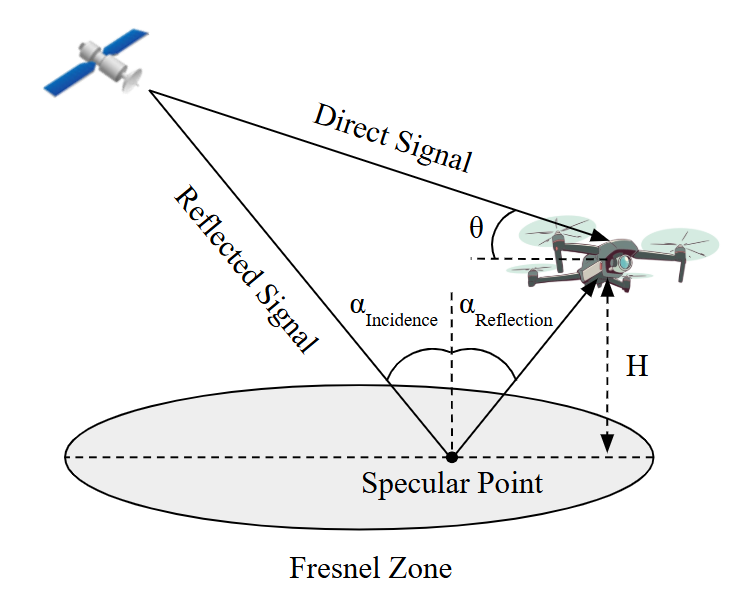
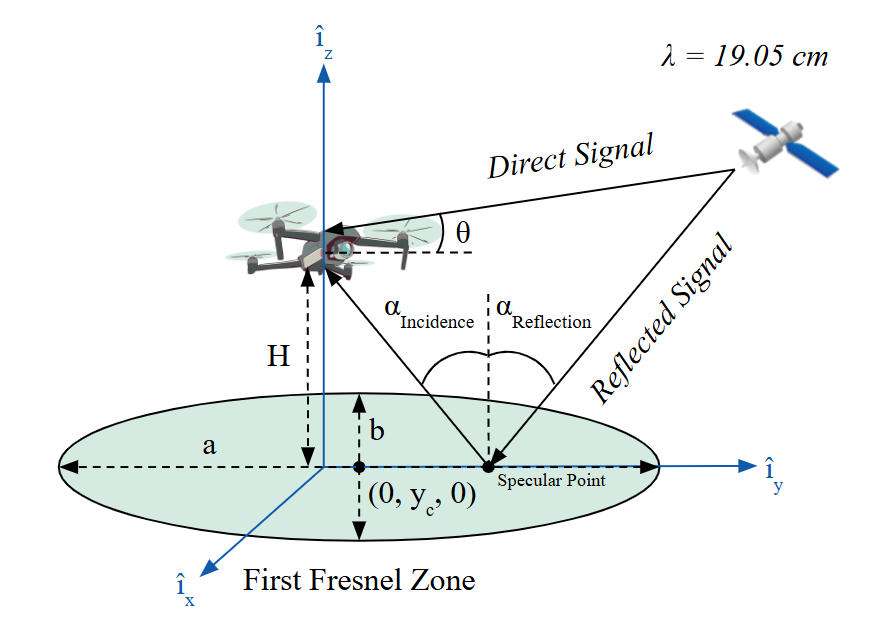
Update until 6.2.3

diff --git a/Final_Report.tex b/Final_Report.tex
@@ -48,7 +48,7 @@
 \subsubsectionfont{\normalsize\it}
 \setlength{\parindent}{0pt}
 \urlstyle{same}
-
+\captionsetup[subfigure]{justification=centering}
 
 \begin{document}
 
@@ -269,14 +269,14 @@ cross-validate the ground parameters retrieved by GNSS-R and machine learning
 models.
 
 The raw GNSS data collected during the flight mission will be post-processed
-into two key measurements: 1) the signal's carrier to noise ratio (CNR), and 2)
-the excess pseudorange delay of the reflected signal after compensating for the
-delay caused by geometrical reflection. These measurements are then analyzed in
-correlation with the ground regions that the signals reflected off from - the
-First Fresnel Zones (FFZ), while any correlation between GNSS measurements and
-ground parameters will be modelled both quantitatively and qualitatively.
-Ultimately, such models will be used to retrieve highly correlated ground
-parameters from key GNSS signal measurements.
+into two key measurements: 1) the signal's carrier to noise ratio ($C/N_0$), and
+2) the excess pseudorange delay of the reflected signal after compensating for
+the delay caused by geometrical reflection. These measurements are then analyzed
+in correlation with the ground regions that the signals reflected off from - the
+First Fresnel Zones, while any correlation between GNSS measurements and ground
+parameters will be modelled both quantitatively and qualitatively. Ultimately,
+such models will be used to retrieve highly correlated ground parameters from
+key GNSS signal measurements.
 
 Lastly, machine learning methods will be adopted to process the collected GNSS
 data. A trained LightGBM model will be used to classify the GNSS signals
@@ -1638,7 +1638,7 @@ practical forest monitoring applications. However, since GNSS signals flip to
 LHCP upon reflection, a receiver capable of receiving LHCP signals is necessary
 to complete the RL polarization configuration \cite{Jia2018}. In another study,
 the polarization scattering properties of GNSS-R signals in forest canopies were
-modeled, where simulations revealed that tree trunk scattering effects would
+modelled, where simulations revealed that tree trunk scattering effects would
 dominate total scattering response, while satellite azimuth angles are
 significantly correlated to the signal polarization \cite{Wu2014}. 
 
@@ -1662,9 +1662,9 @@ receives both the direct and reflected signals simultaneously, the power of the
 received signals was coherently added. As a result, the recorded power
 oscillations due to interference present notches that are correlated to
 vegetation layer thickness and the reflection geometry (Figure \ref{SMIGOL})
-\cite{RodriguezAlvarez2011}. Ultimately, an RMSE of 3-5 cm in estimating the
-height of vegetation with simple geometrical structures (barley and wheat) could
-be achieved \cite{RodriguezAlvarez2011}.
+\cite{RodriguezAlvarez2011}. Ultimately, a Root Mean Square Error (RMSE) of 3-5
+cm in estimating the height of vegetation with simple geometrical structures
+(barley and wheat) could be achieved \cite{RodriguezAlvarez2011}.
 
 \begin{figure}[H]
     \centering
@@ -1696,9 +1696,10 @@ in vegetation monitoring applications:
     soil parameters, and tree size, with RL polarization being ideal for forest
     monitoring. \\
     \midrule
-    Rodríguez-Álvarez et al. (2011) & A SMIGOL reflectometer, which leverages GNSS signal
-    interference patterns to measure soil and vegetation conditions, is used to achieve
-    3-5 cm RMSE in estimating simple vegetation height. \\
+    Rodríguez-Álvarez et al. (2011) & A SMIGOL reflectometer, which leverages
+    GNSS signal interference patterns to measure soil and vegetation conditions,
+    can be used to achieve 3-5 cm RMSE in estimating simple vegetation height.
+    \\
     \midrule
     Wu et al. (2014) & Tree trunk scattering dominates the total GNSS-R
     response, while satellite azimuth angles are significantly correlated to
@@ -1718,112 +1719,175 @@ in vegetation monitoring applications:
 Yet, despite the effort in prior studies, the use of GNSS-R techniques in
 vegetation remote sensing and monitoring is far from developed. Most
 importantly, existing research relies heavily on space-borne or static
-ground-based platforms, while the use of high spatial resolution and flexibility
-platforms - such as a UAV - remains underexplored. Therefore, it is critical to
-develop a systematic framework for a UAV-based GNSS-R system, in which
-correlations between GNSS-R signal features and vegetation condition parameters
-are comprehensively assessed and modeled.
+ground-based platforms, while the use of high spatial resolution and high
+flexibility platforms - such as a UAV - remains underexplored. Therefore, it is
+critical to develop a systematic framework for a UAV-based GNSS-R system, in
+which correlations between GNSS-R signal features and vegetation condition
+parameters are comprehensively assessed and modelled.
 
 \subsection{Methodology}
-The GNSS-R framework takes in raw GNSS data collected from the onboard
-receivers, extracts raw GNSS measurements, and analyzes the characteristics of
-such measurements with respect to the ground features that falls within the
-Fresnel zones. Ultimately, the correlation between GNSS measurement features and
-vegetation properties would be systematically summarized and modeled. The method
-used for retrieving GNSS measurements and the Fresnel zone from collected raw data
-is briefly outlined in the following two sections, while the MATLAB code for the 
-GNSS-R framework is presented in the Appendix.
+In this project, a RL polarization system is adopted onboard the UAV: the zenith
+antenna receives the RHCP signals transmitted directly from the satellite, while
+the nadir antenna receives the LHCP signals after they have reflected off
+various ground features. A schematic representation of the RL polarization
+system, as well as the two types of GNSS signal polarization types, are shown in
+Figure \ref{RL System} below. 
+
+\begin{figure}[H]
+    \centering
+    \begin{subfigure}{0.7\textwidth}
+        \includegraphics[width=\textwidth]{Included_Images/RL_system.png}
+        \caption{RL Polarization System Used for Remote Sensing}
+    \end{subfigure}
+    \vfill
+    \begin{subfigure}{0.49\textwidth}
+        \includegraphics[width=\textwidth]{Included_Images/RHCP.png}
+        \caption{Right-Hand Circular Polarization \\ (Direct GNSS Signal)}
+    \end{subfigure}
+    \hfill
+    \begin{subfigure}{0.49\textwidth}
+        \includegraphics[width=\textwidth]{Included_Images/LHCP.png}
+        \caption{Left-Hand Circular Polarization \\ (Reflected GNSS Signal)}
+    \end{subfigure}
+    \caption{RL polarization system adopted for this project and GNSS signal polarization types.}
+    \label{RL System}
+\end{figure}
+
+The GNSS-R framework then takes in raw GNSS data collected from the onboard
+receivers, extracts GNSS measurements, and analyzes the characteristics of such
+measurements with respect to the ground features that falls within the First
+Fresnel Zones (FFZs) of reflection. Ultimately, the correlation between GNSS
+measurement features and vegetation properties would be systematically
+summarized and modelled. The following sections detail the GNSS measurement
+retrieval process, the calculation of FFZ location and geometry, as well as the
+quantitative modelling of correlations between GNSS parameters and ground
+features. Additionally, the open-source code repository developed for the GNSS-R
+framework of this project is presented in the Appendix.
 
 \subsubsection{GNSS Measurement Extraction}
 Two raw data sources are necessary for the extraction of key GNSS measurements
-used in this project: the raw binary GNSS data and the Pixhawk controller log.
+used for GNSS-R: the raw binary GNSS data and the Pixhawk controller log.
 First, the binary GNSS data is converted into readable observation files using
 RTKCONV \cite{takasu2009rtklib}, and together with the satellite ephemeris data
 downloaded from \url{https://cddis.nasa.gov/archive/gnss/data/}, measurements
 such as the satellite elevation angle, pseudorange, and carrier to noise ratio
 could be extracted using the MatRTKLIB library \cite{taroz:matrtklib}. From the
 Pixhawk controller log, the UAV position, which is a filtered positioning result
-from various onboard sensors, is obtained and regarded as the ground truth
-assuming that the positioning error is small. Ultimately, two major GNSS
-measurement are taken for further analysis: carrier to noise ratio ($C/N_0$) and
-pseudorange error. 
+from onboard sensor inputs, is obtained and regarded as the ground truth
+assuming that the positioning error is small. Then, two key GNSS measurement
+parameters are calculated for further analysis: carrier to noise ratio ($C/N_0$)
+and excess pseudorange delay. 
 \begin{figure}[H]
     \centering
-    \includegraphics[width=0.8\textwidth]{Included_Images/GNSS_Measurement_Flow.png}
-    \caption{Flowchart of extracting GNSS measurements from raw data.}
+    \includegraphics[width=\textwidth]{Included_Images/GNSS_Measurement_Flow.png}
+    \caption{Workflow of extracting GNSS measurements from raw data.}
 \end{figure}
 
 \paragraph{Carrier to Noise Ratio} ~\\
 Carrier to noise ratio refers to the power of received carrier signal relative
-to the noise power per unit bandwidth, usually with a unit of decibel-Hertz (dB-Hz)
-\cite{joseph2010gnss}. $C/N_0$ can be readily obtained from the receiver, and it 
-is calculated as the following:
+to the noise power per unit bandwidth, usually with a unit of decibel-Hertz
+(dB-Hz) \cite{joseph2010gnss}. $C/N_0$ can be readily obtained from the
+receiver, and it is calculated as the following:
 \begin{equation}
     C/N_0 = C - (N - BW)
 \end{equation}
-where $C$ refers to the carrier power in dBm or dBW; $N$ refers to the noise power
-in dBm or dBW; and $BW$ refers to the bandwidth of the signal in Hz.
+where $C$ refers to the carrier power in dBm or dBW; $N$ refers to the noise
+power in dBm or dBW; and $BW$ refers to the bandwidth of the signal in Hz. Since
+$C/N_0$ can be attenuated by scattering off from trees or by reflecting off from
+the ground, the attenuation profiles from different ground objects may carry key
+information that describes potential ground features. 
 
-\paragraph{Pseudorange Error} ~\\
+\paragraph{Excess Pseudorange Delay} ~\\
 In GNSS, pseudorange refers to the "apparent" distance between a satellite and a
-receiver, which includes the true geometric range plus various biases and delays.
-For the $i$th satellite, its pseudorange $\rho^i$ could be expressed as the following 
-\cite{kaplan2017understanding}:
+receiver, which includes the true geometric range plus various biases and
+delays. For a signal that directly propagates from the satellite to the zenith
+antenna in a straight line, its pseudorange $\rho_{direct}$ could be expressed
+as the following \cite{kaplan2017understanding}:
 \begin{equation}
-    \rho^i = R^i + \Delta t_r + \Delta t_s^i + I^i + T^i + \epsilon^i
+    \rho_{direct} = R_{direct} + \Delta t_{zenith} + \Delta t_s + I + T
 \end{equation}
-where $R^i$ refers to the true distance between the satellite and the receiver;
-$\Delta t_r$ refers to the receiver clock bias; $\Delta t_s^i$ refers to the satellite
-clock bias; $I^i$ refers to the ionospheric delay; $T^i$ refers to the tropospheric 
-delay; and $\epsilon^i$ refers to the pseudorange error, which is mainly
-introduced through signal reflections. Among all the signals received at a given
-instant, a satellite $m$ with the highest elevation angle is regarded as the
-'master satellite', where the assumption that the master satellite is free of reflections
-is applied \cite{hsu2018analysis}:
+where $R_{direct}$ refers to the true distance between the satellite and the
+receiver; $\Delta t_{zenith}$ refers to the zenith receiver clock bias; $\Delta
+t_s$ refers to the satellite clock bias; $I$ refers to the ionospheric delay;
+and $T$ refers to the tropospheric delay. \\
+For a signal that have reflected off the ground and received by the nadir
+antenna, its pseudorange $\rho_{reflected}$ can be expressed using a similar
+equation with two additional error terms:
 \begin{equation}
-    \rho^m = R^m + \Delta t_r + \Delta t_s^m + I^m + T^m.
+    \rho_{reflected} = R_{direct} + \Delta t_{nadir} + \Delta t_s + I + T + E_{reflection} + \epsilon
 \end{equation}
+where $\Delta t_{nadir}$ refers to the nadir receiver clock bias;
+$E_{reflection}$ refers to the delay caused by geometrical reflection; and
+$\epsilon$ refers to the excess pseudorange delay, which accounts for unmodelled
+errors such as scattering from vegetation. A diagram illustrating the direct and
+the reflected signal's propagation path is shown in Figure \ref{Excess Pseudorange Delay Diagram} below.
 \begin{figure}[H]
     \centering
-    \includegraphics[width=0.5\textwidth]{Included_Images/Pr_Error_Illustration.png}
-    \caption{Schematic diagram illustrating satellite $i$ and satellite $m$.}
+    \includegraphics[width=0.5\textwidth]{Included_Images/excess_pseudorange_delay.png}
+    \caption{Pseudoranges of the direct and the reflected signal in the adopted GNSS-R system.}
+    \label{Excess Pseudorange Delay Diagram}
 \end{figure}
-Assuming $\Delta t_s^i$ and $\Delta t_s^m$ can be effectively removed by 
-satellite-broadcasted parameters, $I^i$ and $I^m$ can be effectively removed by the
-Klobuchar model, and $T^i$ and $T^m$ can be effectively removed by the Saastamoinen model,
-the pseudorange equations can be approximated as \cite{kaplan2017understanding}:
+Since the distance between the satellite and the receiver is significantly
+larger than the distance between the receiver and the point of reflection on
+ground, the delay caused by geometrical reflection, $E_{reflection}$, could be estimated using the following expression:
 \begin{equation}
-    \rho^i = R^i + \Delta t_r + \epsilon^i,
-\label{ith satellite pseudorange}
+    E_{reflection} = \frac{2H}{sin(\theta)}
 \end{equation}
+where $\theta$ refers to the satellite's elevation angle and $H$ refers to the
+UAV's above ground altitude. Here, since the UAV true position is given in the
+global coordinate of latitude, longitude, and height (LLH) in the Pixhawk log
+data, the terrain height shall be subtracted to obtain the above ground
+altitude, $H$. This terrain height is obtained through the Hong Kong Digital
+Terrain Model
+(\url{https://data.gov.hk/en-data/dataset/hk-landsd-openmap-5m-grid-dtm}), which
+shows the topographical information in 5 meter by 5 meter grids with an accuracy
+of $\pm$ 5 meters \cite{dataDigitalTerrain}. \\
+Substituting $E_{reflection}$ into the pseudorange equation for the reflected
+signal while taking the difference between the direct signal and the reflected
+signal's pseudoranges, the true distance between the satellite and the receivers
+($R_{direct}$), satellite clock bias ($\Delta t_s$), ionospheric delay ($I$),
+and tropospheric delay ($T$) are effectively cancelled: 
 \begin{equation}
-    \rho^m = R^m + \Delta t_r.
-\label{master satellite pseudorange}
+    \rho_{reflected} - \rho_{direct} = \Delta t_{nadir} - \Delta t_{zenith} + \frac{2H}{sin(\theta)} + \epsilon
 \end{equation}
-Finally, taking the difference between \eqref{ith satellite pseudorange} and 
-\eqref{master satellite pseudorange} and rearranging the equation will result in the
-pseudorange error:
+In the equation above, the difference between the receiver clock biases, $\Delta
+t_{nadir} - \Delta t_{zenith}$, could be approximated as the mean of the
+residual pseudorange difference after compensating for the reflection delay
+($\rho_{reflected} - \rho_{direct} - \frac{2H}{sin(\theta)}$). This is valid
+because the residual pseudorange difference follows a normal distribution, as
+shown in Figure \ref{pr_diff-reflection_delay}, thus its mean provides the most
+likely value for the relatively constant hardware bias. 
+\begin{figure}[H]
+    \centering
+    \includegraphics[width=0.75\textwidth]{Included_Images/pr_diff-reflection_delay.png}
+    \caption{Distribution of the residual pseudorange difference after compensating for the signal reflection delay.}
+    \label{pr_diff-reflection_delay}
+\end{figure}
+Ultimately, the excess pseudorange delay could be calculated:
 \begin{equation}
-    \epsilon^i = \rho^i - \rho^m - R^i + R^m.
+    \epsilon = \rho_{reflected} - \rho_{direct} - (\Delta t_{nadir} - \Delta t_{zenith}) - \frac{2H}{sin(\theta)}
 \end{equation}
+where its values may carry key information that describes the interaction
+between GNSS signals and various ground features.
 
-\subsubsection{Fresnel Zone Analysis}
+\subsubsection{First Fresnel Zone Calculation}
 Following the extraction of GNSS measurements observed onboard the UAV, the GNSS
-signal would be particularly analyzed with respect to the 2-dimensional ground region 
-that it is reflected from. Within this region, a specular reflection point could be found,
-where the angle of incidence is equal to the angle of reflection. 
+signals would be particularly analyzed with respect to the 2-dimensional ground
+region that it is reflected off from.
 \begin{figure}[H]
     \centering
-    \includegraphics[width=0.5\textwidth]{Included_Images/Fresnel_Zone_Illustration.png}
-    \caption{Schematic diagram of GNSS-R signal scattering geometry.}
+    \includegraphics[width=0.75\textwidth]{Included_Images/Fresnel_Zone_Illustration.png}
+    \caption{Schematic diagram of GNSS-R signal reflection geometry with the First Fresnel Zone illustrated.}
 \end{figure}
-The primary scattering area around the specular point in which reflected signals
-arrive at the receiver in coherence is called the first Fresnel zone (FFZ). By
-definition, it is an ellipse for which the signal phase change across is within
-$\frac{\lambda}{2}$ radians, where $\lambda$ refers to the signal wavelength
-\cite{Jia2018}. Given the incidence angle $\theta$ and the height of the
-receiver $H$, the semi-major axis $a$ and the semi-minor axis $b$ of the FFZ can
-be calculated as the following \cite{yu2021theory}: 
+Within this region, a specular reflection point could be found, where the angle
+of incidence is equal to the angle of reflection. The primary scattering area
+around the specular point in which reflected signals arrive at the receiver in
+coherence is called the First Fresnel Zone (FFZ). By definition, it is an
+ellipse for which the signal phase change across is within $\frac{\lambda}{2}$
+radians, where $\lambda$ refers to the signal wavelength \cite{Jia2018}. Given
+the incidence angle $\theta$ and the height of the receiver $H$, the semi-major
+axis $a$ and the semi-minor axis $b$ of the FFZ can be calculated as the
+following \cite{yu2021theory}: 
 \begin{equation}
     a = \frac{\sqrt{\lambda H sin(\theta)+\frac{\lambda^2}{4}}}{(sin(\theta))^2},
 \end{equation}
@@ -1835,14 +1899,8 @@ defined. The origin is the receiver's ground projection, while the y-axis aligns
 with the ground projection of the vector from the receiver to the satellite. The
 z-axis follows the up direction of the local East-North-Up (ENU) coordinates,
 and the x-axis completes the coordinate system by remaining orthogonal to both x
-and y axes. 
-\begin{figure}[H]
-    \centering
-    \includegraphics[width=0.6\textwidth]{Included_Images/Fresnel_Zone_Coordinates.png}
-    \caption{Schematic diagram of the local coordinate axes defined.}
-\end{figure}
-In this coordinate system, the location of the FFZ center could be expressed as
-$(x_c, y_c, z_c)$, where \cite{yu2021theory}:
+and y axes. In this coordinate system, the location of the FFZ center could be
+expressed as $(x_c, y_c, z_c)$, where \cite{yu2021theory}:
 \begin{equation}
     x_c = 0
 \end{equation}
@@ -1852,24 +1910,10 @@ $(x_c, y_c, z_c)$, where \cite{yu2021theory}:
 \begin{equation}
     z_c = 0
 \end{equation}
-The flowchart for calculating the FFZ shape and location is outlined in the
-figure below. Here, since the UAV true position is given in the global
-coordinate of latitude, longitude, and height (LLH) in the Pixhawk log data, the
-terrain height shall be subtracted to obtain the UAV height above ground, $H$.
-This terrain height is obtained through the Hong Kong Digital Terrain Model
-(\url{https://data.gov.hk/en-data/dataset/hk-landsd-openmap-5m-grid-dtm}), which
-shows the topographical information in 5 meter by 5 meter grids with an accuracy of
-$\pm$ 5 meters \cite{dataDigitalTerrain}. 
-\begin{figure}[H]
-    \centering
-    \includegraphics[width=0.75\textwidth]{Included_Images/FFZ_Flow.png}
-    \caption{Flowchart of calculating FFZ shape and location from collected data.}
-\end{figure}
 
-One key issue for the GNSS-R is not being able to classify the received signals
-into direct signals and reflected signals. Therefore, in this project, machine
-learning techniques are employed to classify the received signals based on the
-extracted GNSS measurements, as outlined in the section below.
+\subsubsection{Correlation Modelling}
+
+
 
 \subsection{Results and Discussion}
 After successful execution of the path planning algorithms onboard the UAV, GNSS
@@ -2867,6 +2911,38 @@ aligns with different frameworks of this project. Specifically:
     \item Path Planning: \url{https://github.com/sashenkagamage/canopix.ai} 
     \item LiDAR SLAM: \url{https://github.com/A4paper2003/scpgo-workspace/tree/main}
 \end{itemize}
+
+\subsubsection*{Calculating Pseudorange Errors}
+Among all the signals received at a given
+instant, a satellite $m$ with the highest elevation angle is regarded as the
+'master satellite', where the assumption that the master satellite is free of reflections
+is applied \cite{hsu2018analysis}:
+\begin{equation}
+    \rho^m = R^m + \Delta t_r + \Delta t_s^m + I^m + T^m.
+\end{equation}
+\begin{figure}[H]
+    \centering
+    \includegraphics[width=0.5\textwidth]{Included_Images/Pr_Error_Illustration.png}
+    \caption{Schematic diagram illustrating satellite $i$ and satellite $m$.}
+\end{figure}
+Assuming $\Delta t_s^i$ and $\Delta t_s^m$ can be effectively removed by 
+satellite-broadcasted parameters, $I^i$ and $I^m$ can be effectively removed by the
+Klobuchar model, and $T^i$ and $T^m$ can be effectively removed by the Saastamoinen model,
+the pseudorange equations can be approximated as \cite{kaplan2017understanding}:
+\begin{equation}
+    \rho^i = R^i + \Delta t_r + \epsilon^i,
+\label{ith satellite pseudorange}
+\end{equation}
+\begin{equation}
+    \rho^m = R^m + \Delta t_r.
+\label{master satellite pseudorange}
+\end{equation}
+Finally, taking the difference between \eqref{ith satellite pseudorange} and 
+\eqref{master satellite pseudorange} and rearranging the equation will result in the
+pseudorange error:
+\begin{equation}
+    \epsilon^i = \rho^i - \rho^m - R^i + R^m.
+\end{equation}
 
 
 % --- References ---
